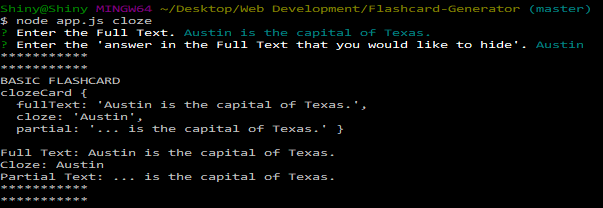
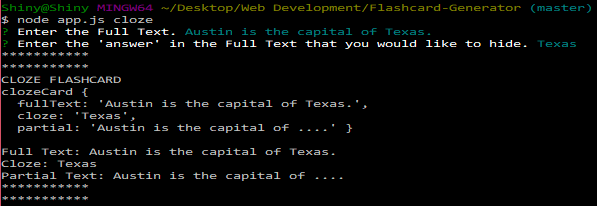
corrected some words

Changed region(s): [[0.0, 0.0, 0.995, 0.6408], [0.0, 0.699, 0.5729, 0.9903]]

diff --git a/app.js b/app.js
@@ -75,7 +75,7 @@ function clozeCreation() {
   }, {
     type: "input",
     name: "cloze",
-    message: "Enter the 'answer in the Full Text that you would like to hide'.",
+    message: "Enter the 'answer' in the Full Text that you would like to hide.",
   }
 
 ]).then(function (answers) {
@@ -84,7 +84,7 @@ function clozeCreation() {
 
     console.log("***********");
     console.log("***********");
-    console.log("BASIC FLASHCARD")
+    console.log("CLOZE FLASHCARD")
     console.log(clozeFlashCard);
     console.log("");
     console.log("Full Text: " + clozeFlashCard.fullText);
